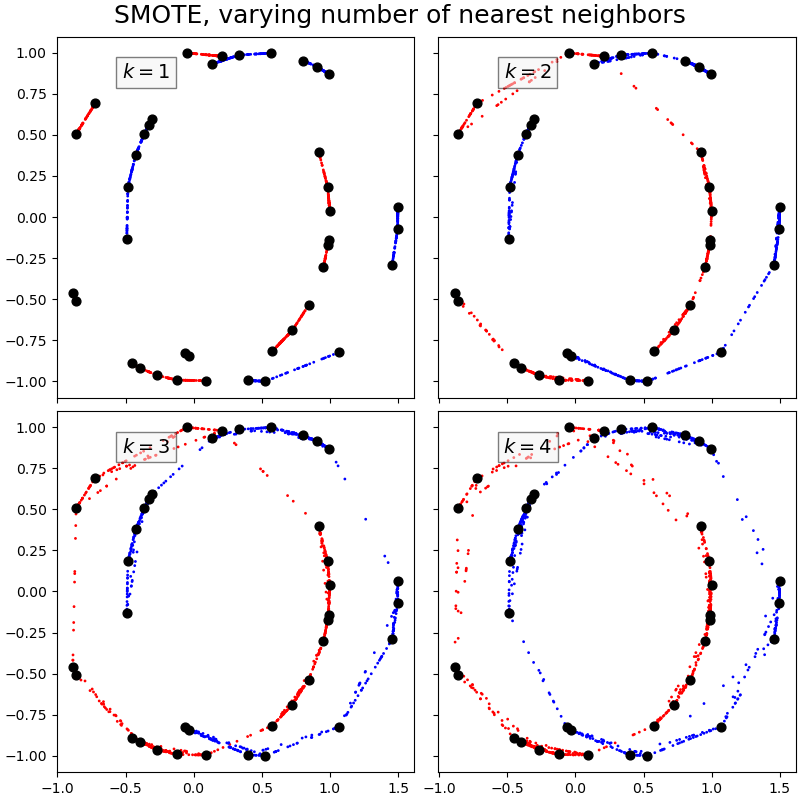
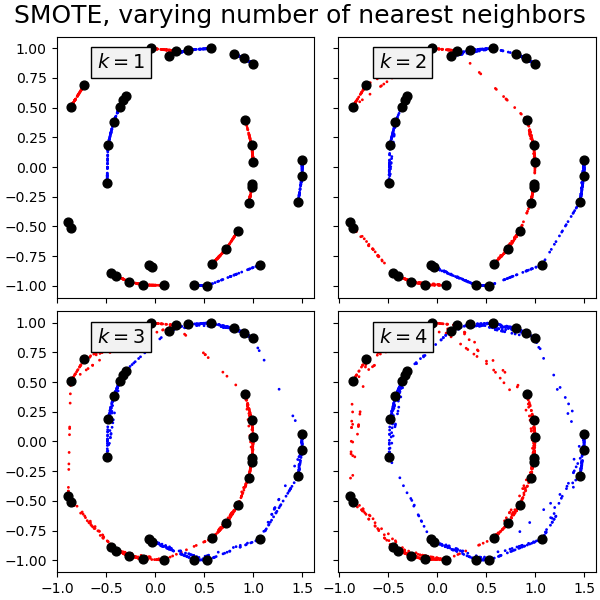
polish

diff --git a/example1.py b/example1.py
@@ -11,7 +11,7 @@ m = 20      # Data points per circle
 p = 1273    # Total additional data points.
 np.random.seed(57721)   # Euler-Mascheroni
 
-props = dict(boxstyle='square', facecolor=[0.95,0.95,0.95], edgecolor='k', alpha=0.5)
+props = dict(boxstyle='square', facecolor=[0.95,0.95,0.95], edgecolor='k', alpha=1)
 
 th = 2*np.pi*np.random.rand(m)
 x0 = np.cos(th)
@@ -29,7 +29,7 @@ labels = np.hstack( (np.zeros(m), np.ones(m)) )
 fig,ax = pyplot.subplots(2,2, 
                          sharex=True, 
                          sharey=True, 
-                         figsize=(8,8),
+                         figsize=(6,6),
                          constrained_layout=True
                          )
 
